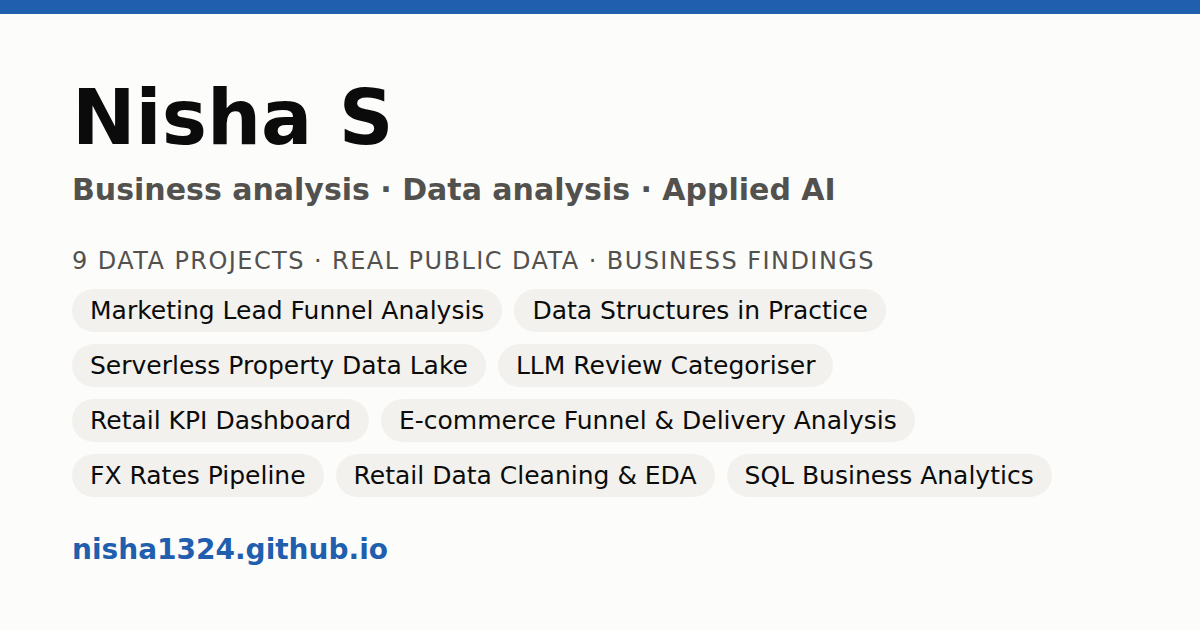
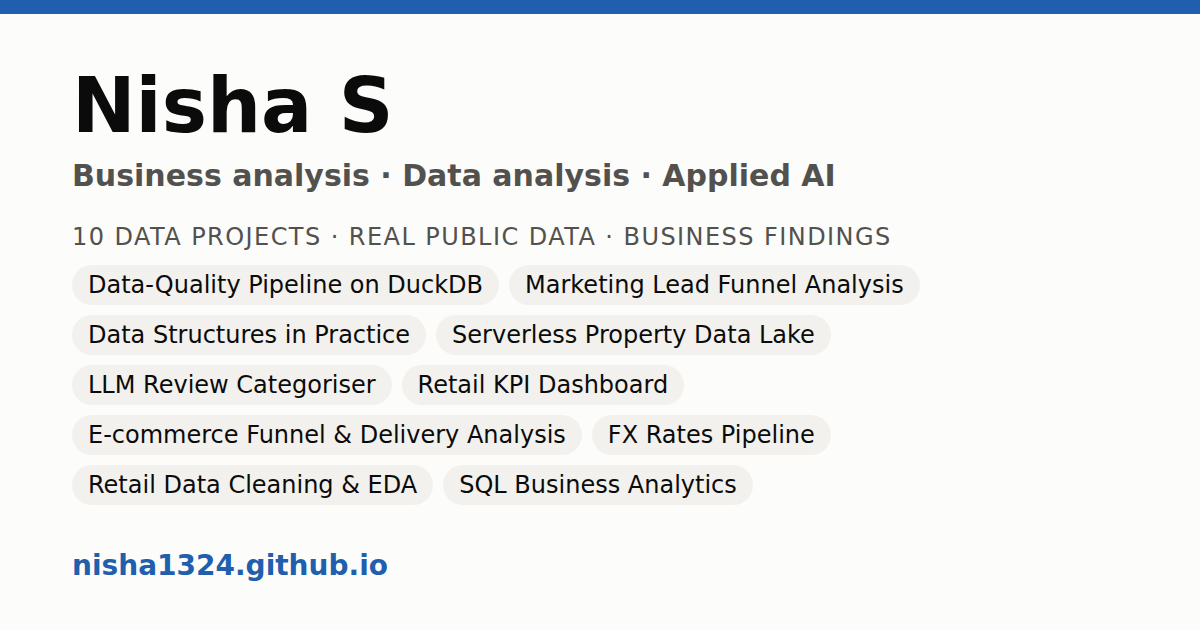
feat: add data-quality-pipeline-duckdb project card with its monthly undercount chart
Ten project chips no longer fit the link-preview layout, so its vertical
spacing is tightened and the URL line keeps a fixed gap.

Changed region(s): [[0.0617, 0.3619, 0.8633, 0.7841], [0.0617, 0.1206, 0.7092, 0.3317], [0.0617, 0.8444, 0.3392, 0.9349]]

diff --git a/scripts/make_og_image.py b/scripts/make_og_image.py
@@ -27,14 +27,14 @@ W, H = 1200, 630
 CARD = """<!doctype html><html><head><meta charset="utf-8"><style>
 html, body {{ margin: 0; width: {w}px; height: {h}px; overflow: hidden; }}
 body {{ background: #fcfcfb; color: #0b0b0b; box-sizing: border-box;
-       font-family: system-ui, "DejaVu Sans", sans-serif; padding: 64px 72px;
+       font-family: system-ui, "DejaVu Sans", sans-serif; padding: 52px 72px 48px;
        border-top: 14px solid #1f5fae; display: flex; flex-direction: column; }}
 h1 {{ font-size: 76px; margin: 0; line-height: 1.05; }}
-.headline {{ font-size: 30px; color: #52514e; margin: 14px 0 40px; font-weight: 600; }}
+.headline {{ font-size: 30px; color: #52514e; margin: 12px 0 30px; font-weight: 600; }}
 .count {{ font-size: 24px; text-transform: uppercase; letter-spacing: .06em; color: #52514e; margin: 0 0 14px; }}
-ul {{ list-style: none; padding: 0; margin: 0; display: flex; flex-wrap: wrap; gap: 12px; }}
-li {{ font-size: 25px; padding: 7px 18px; border-radius: 999px; background: #f2f1ed; }}
-.url {{ margin: auto 0 0; font-size: 28px; font-weight: 700; color: #1f5fae; }}
+ul {{ list-style: none; padding: 0; margin: 0; display: flex; flex-wrap: wrap; gap: 10px; }}
+li {{ font-size: 24px; padding: 6px 16px; border-radius: 999px; background: #f2f1ed; }}
+.url {{ margin: auto 0 0; padding-top: 22px; font-size: 28px; font-weight: 700; color: #1f5fae; }}
 </style></head><body>
 <h1>{name}</h1>
 <p class="headline">{headline}</p>
